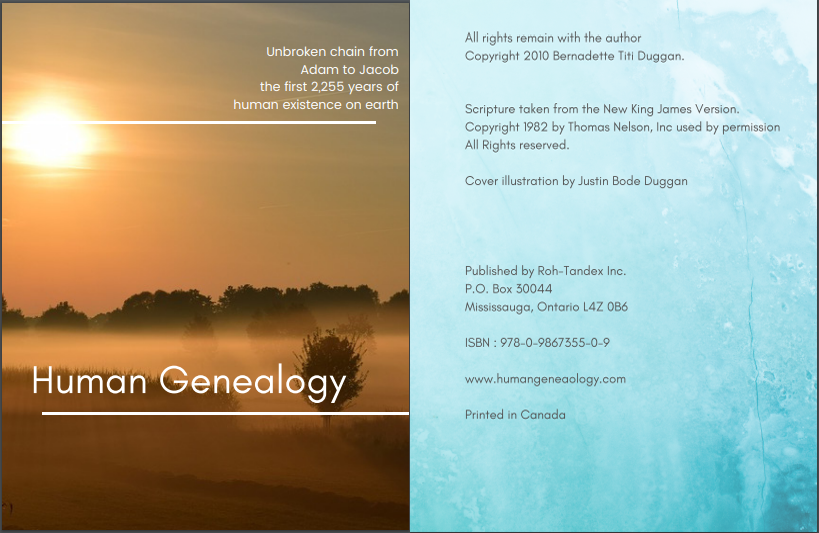
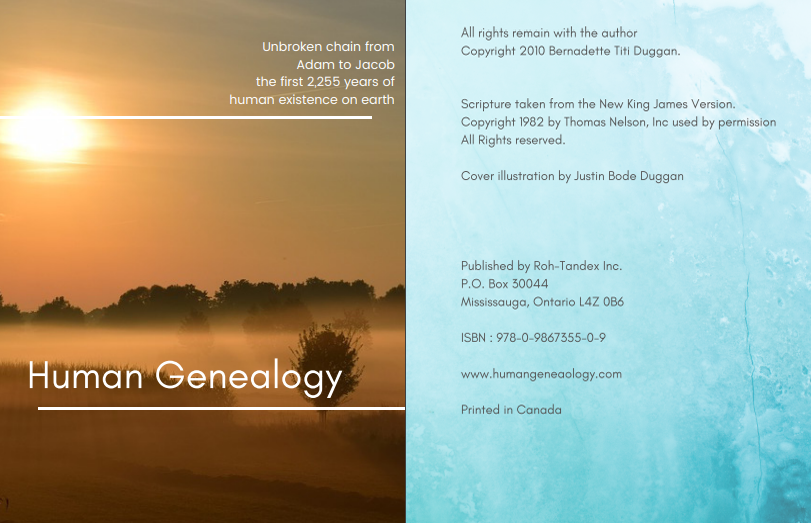
updated with loader

diff --git a/author.html b/author.html
@@ -138,8 +138,8 @@ and (orientation : portrait) {
       <div>
         Copyrights © <script type="text/javascript">
           document.write(new Date().getFullYear());
-        </script><a href="#" id="humangenealogy">Human Genealogy</a>      </div>
-        <strong>Made By <a href="www.reonnet.com" id="reonnet">Reonnet</a>.</strong>
+        </script><a href="#" id="humangenealogy"> Human Genealogy</a>      </div>
+        <strong>Made By <a href="https://www.reonnet.com" id="reonnet">Reonnet</a>.</strong>
     </div>
     <!-- /.container -->
   </footer>

diff --git a/index.html b/index.html
@@ -144,7 +144,7 @@
     </style>
 </head>
 
-<body style="background-image: url('imgs/abstract-1277156_1920.png')">
+<body style="background-image: url('imgs/abstract-1277156_1920 (2).jpg'); background-size:cover ">
     <div class="loader">
         <svg width="513" height="184" viewBox="0 0 513 184" fill="none" xmlns="http://www.w3.org/2000/svg" id="preload">
         <mask id="path-1-outside-1" maskUnits="userSpaceOnUse" x="0.207184" y="0.839996" width="513" height="183"

diff --git a/contact.html b/contact.html
@@ -187,7 +187,7 @@ and (orientation : portrait) {
       <div>
         Copyrights © <script type="text/javascript">
           document.write(new Date().getFullYear());
-        </script><a href="#" id="humangenealogy">Human Genealogy</a>      </div>
+        </script><a href="#" id="humangenealogy"> Human Genealogy</a>      </div>
         <strong>Made By <a href="www.reonnet.com" id="reonnet">Reonnet</a>.</strong>
     </div>
     <!-- /.container -->

diff --git a/news.html b/news.html
@@ -182,7 +182,7 @@ and (orientation : portrait) {
       <div>
         Copyrights © <script type="text/javascript">
           document.write(new Date().getFullYear());
-        </script><a href="#" id="humangenealogy">Human Genealogy</a>      </div>
+        </script><a href="#" id="humangenealogy"> Human Genealogy</a>      </div>
         <strong>Made By <a href="www.reonnet.com" id="reonnet">Reonnet</a>.</strong>
     </div>
     <!-- /.container -->

diff --git a/products.html b/products.html
@@ -231,7 +231,7 @@ and (orientation : portrait) {
       <div>
         Copyrights © <script type="text/javascript">
           document.write(new Date().getFullYear());
-        </script><a href="#" id="humangenealogy">Human Genealogy</a>      </div>
+        </script><a href="#" id="humangenealogy"> Human Genealogy</a>      </div>
         <strong>Made By <a href="www.reonnet.com" id="reonnet">Reonnet</a>.</strong>
     </div>
     <!-- /.container -->

diff --git a/testimonials.html b/testimonials.html
@@ -285,7 +285,7 @@ and (orientation : portrait) {
       <div>
         Copyrights © <script type="text/javascript">
           document.write(new Date().getFullYear());
-        </script><a href="#" id="humangenealogy">Human Genealogy</a>      </div>
+        </script><a href="#" id="humangenealogy"> Human Genealogy</a>      </div>
         <strong>Made By <a href="www.reonnet.com" id="reonnet">Reonnet</a>.</strong>
     </div>
     <!-- /.container -->
